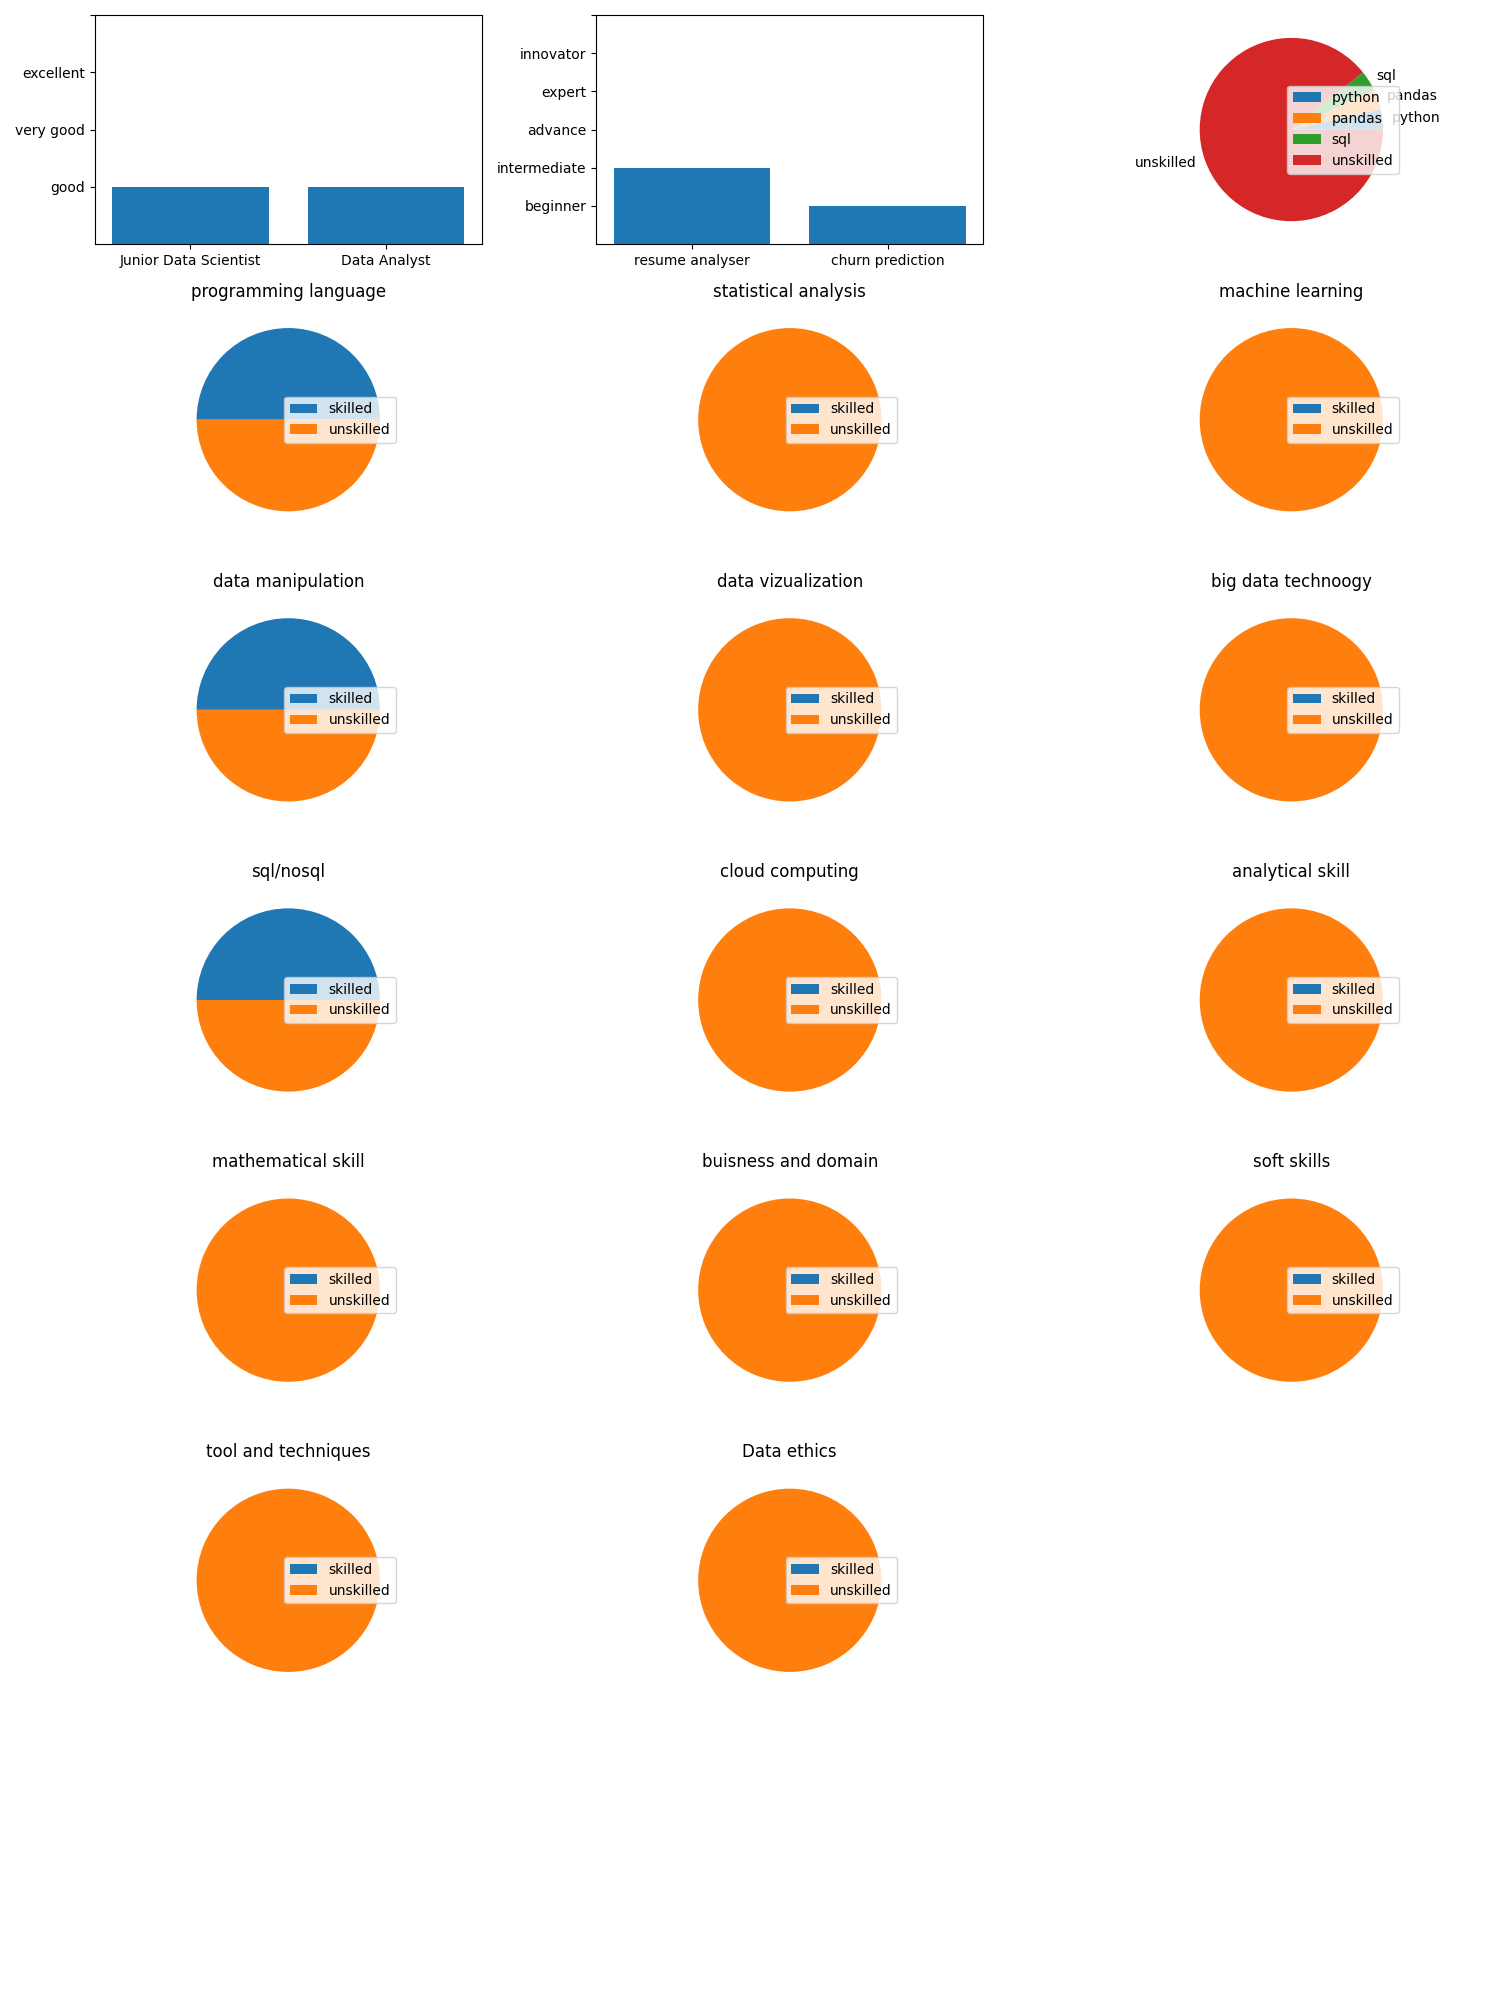
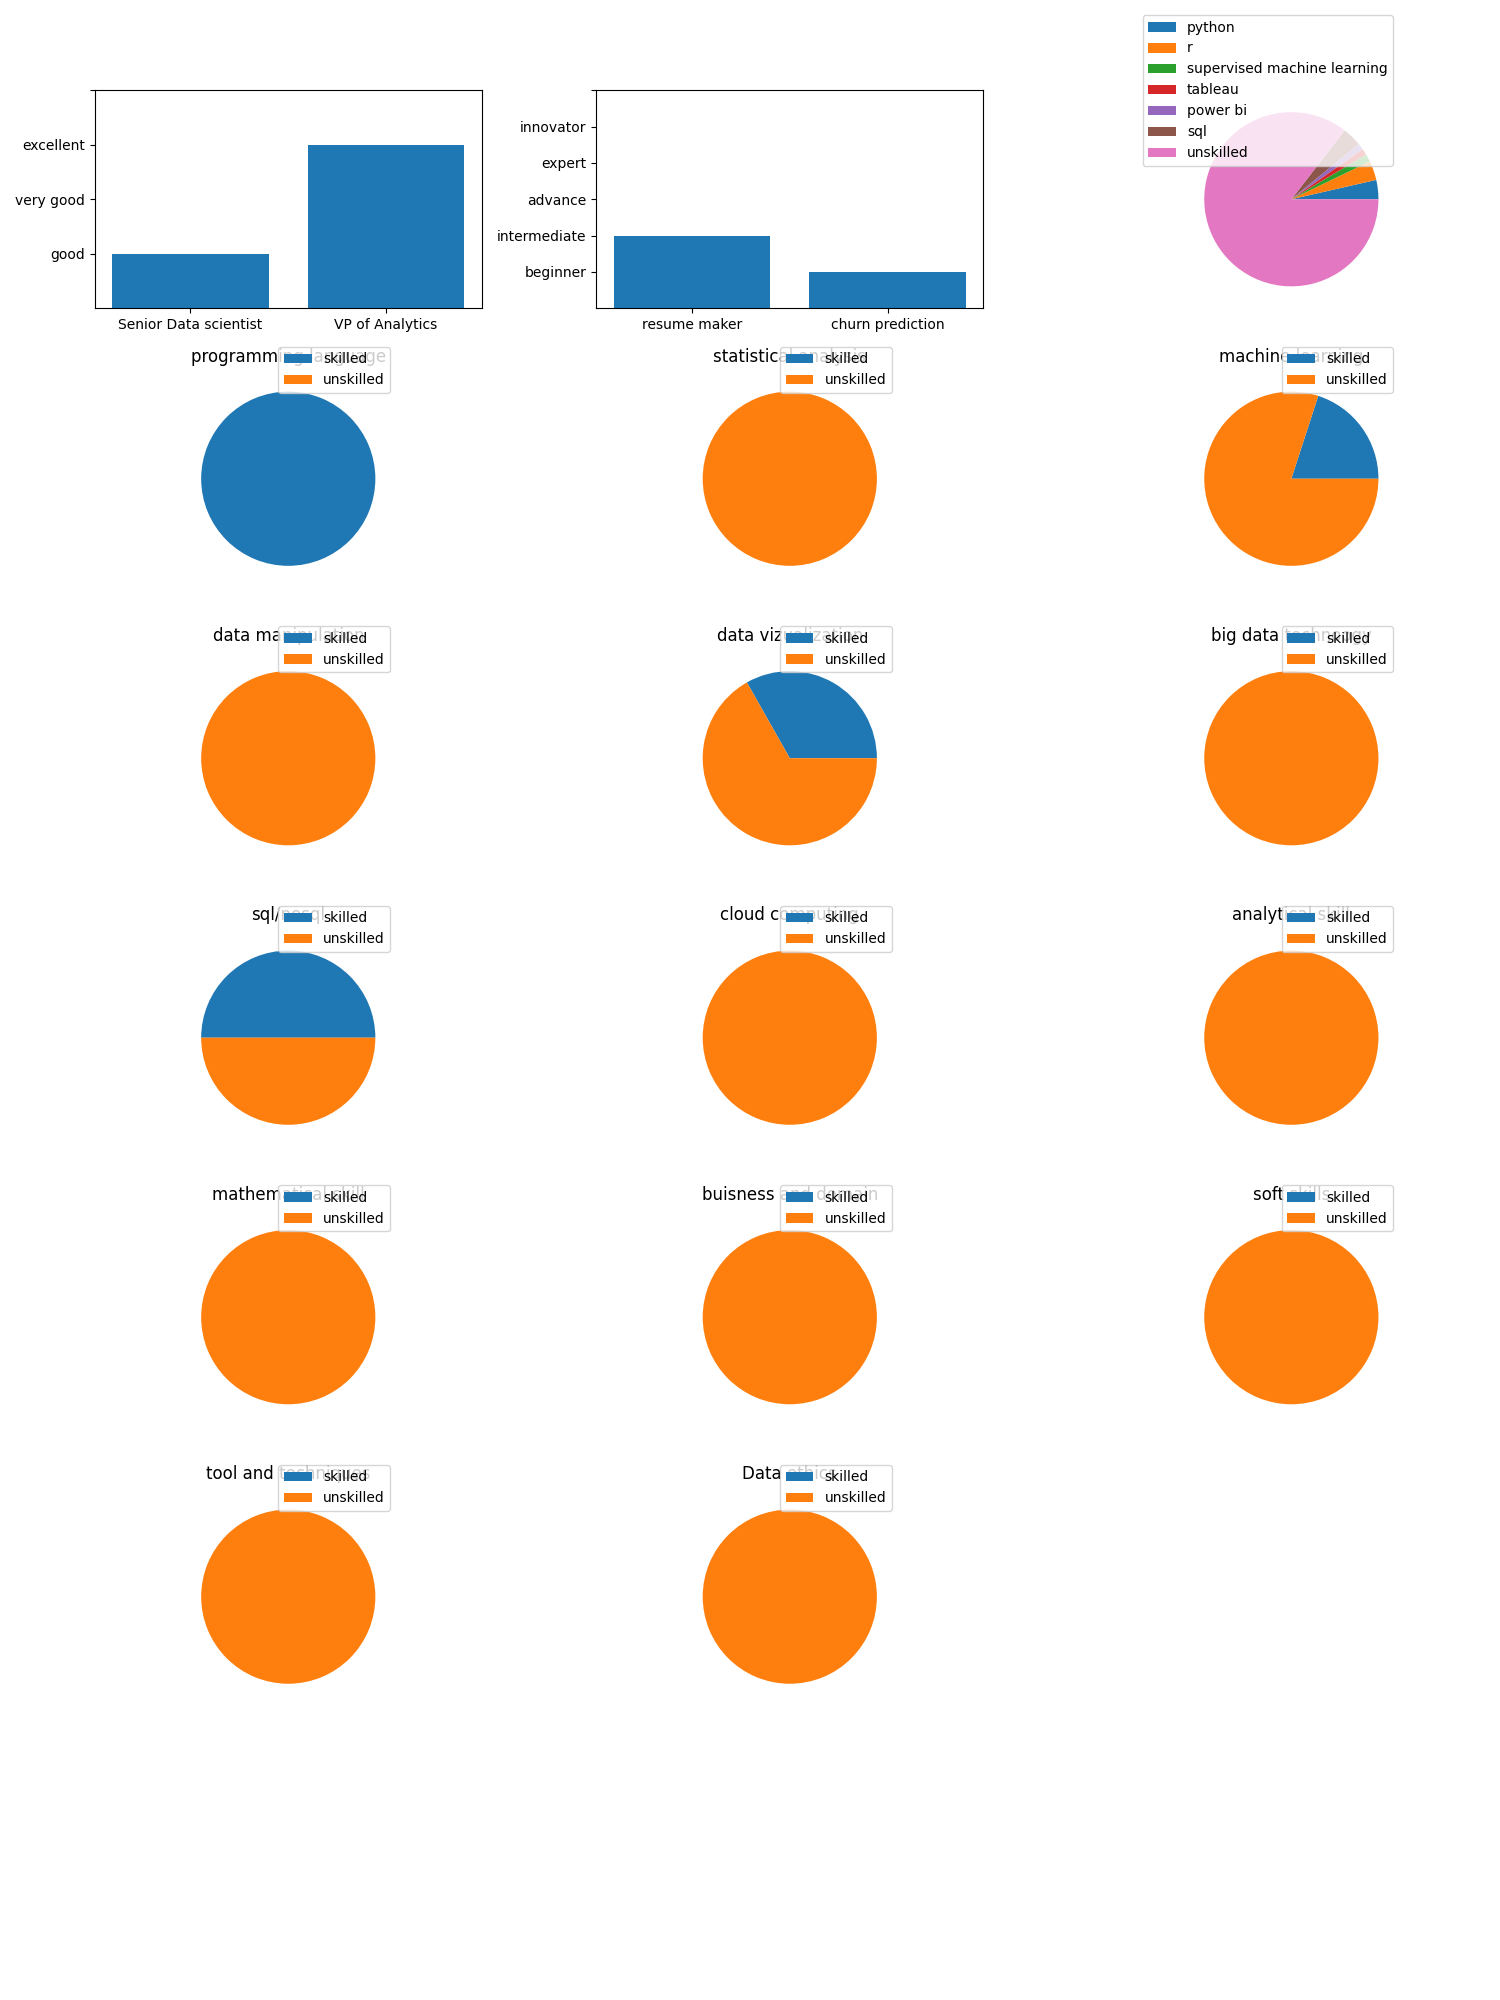
modifiy

diff --git a/templates/index.html b/templates/index.html
@@ -12,13 +12,28 @@
             background-position: center;
             background-repeat: no-repeat;
             cursor:pointer;
-            border:  7px solid rgb(77, 76, 76);
+            border:  5px solid rgb(77, 76, 76);
             box-shadow: 0 0 25px rgba(249, 250, 249, 0.5);
             width: 95%;
             height: 55%;
             border-radius: 0px;
             justify-content: center;
             align-items: center;
+        }
+        .layout2{
+            background-image: url("{{ url_for('static',filename='images/Layoutimg2.PNG')}}");
+            background-size: cover;
+            background-position: center;
+            background-repeat: no-repeat;
+            cursor:pointer;
+            border:  5px solid rgb(77, 76, 76);
+            box-shadow: 0 0 25px rgba(249, 250, 249, 0.5);
+            width: 95%;
+            height: 55%;
+            border-radius: 0px;
+            justify-content: center;
+            align-items: center;
+        
         }
     </style>
 </head>
@@ -38,7 +53,7 @@
             <button class="layout1"></button>
         </form>
         <form action="/Layout2" method="get">
-            <button class="layout1"></button>
+            <button class="layout2"></button>
         </form>
         <form action="/Layout3" method="get">
             <button class="layout1"></button>

diff --git a/templates/final_resume2.html b/templates/final_resume2.html
@@ -34,7 +34,7 @@
                 <label class="nmi" required style="font-size: 40px; width: 100%; color: white;">{{ name_info | safe }}</label>   
             </div>
             <div style="margin-left: 25%;">
-                <img style="border-radius: 20px; margin: 5%; margin-left: 50%;" src="{{url_for('static',filename='uploads/'+img_info)}}" alt="l" class="pathi">
+                <img style="height: 50%; width: 50%; border-radius: 20px; margin: 5%; margin-left: 50%;" src="{{url_for('static',filename='uploads/'+img_info)}}" alt="l" class="pathi">
             </div>    
         </div>
         <div style="padding-top: 1%; padding-bottom: 0.75%;">

diff --git a/templates/marksheet.html b/templates/marksheet.html
@@ -5,7 +5,7 @@
     <meta name="viewport" content="width=device-width, initial-scale=1.0">
     <title>Marksheet</title>
 </head>
-<body style="justify-content: center; align-items: center;">
+<body style="text-align: center;">
     <h1 style="font-family: 'Franklin Gothic Medium', 'Arial Narrow', Arial, sans-serif; font: bolder; color: rgb(48, 15, 155);">Overall Experience    {{ovr_exp}}</h1>
     <img src="{{ plot_img }}" alt="">
 </body>

diff --git a/plots.py b/plots.py
@@ -10,6 +10,7 @@ def pltimg():
     if exp_sum>3:
         exp_sum=3
     lab=["skilled","unskilled"]
+    global percentage_exp
     percentage_exp=f"{(exp_sum/3)*100 :.2f}%"
     pr,lb,lv=Marks()
     plt.figure(figsize=(15,20))
@@ -20,66 +21,67 @@ def pltimg():
     plt.bar(pr,lv)
     plt.yticks([1,2,3,4,5,6],["beginner","intermediate","advance","expert","innovator",""])
     plt.subplot(7,3,3)
-    plt.pie(skillpoints,labels=skillshave)
-    plt.legend(skillshave,loc="right")
+    plt.pie(skillpoints)
+    plt.legend(skillshave,loc="left",bbox_to_anchor=(-0.2,1))
     plt.subplot(7,3,4)
     plt.pie(allskillpoints[0])
     plt.title(skillsnames[0])
-    plt.legend(lab,loc="right") 
+    plt.legend(lab,loc="left",bbox_to_anchor=(-0.2,1)) 
     plt.subplot(7,3,5)
     plt.pie(allskillpoints[1])
     plt.title(skillsnames[1])
-    plt.legend(lab,loc="right")    
+    plt.legend(lab,loc="left",bbox_to_anchor=(-0.2,1))    
     plt.subplot(7,3,6)
     plt.pie(allskillpoints[2])
     plt.title(skillsnames[2])
-    plt.legend(lab,loc="right")    
+    plt.legend(lab,loc="left",bbox_to_anchor=(-0.2,1))    
     plt.subplot(7,3,7)
     plt.pie(allskillpoints[3])
     plt.title(skillsnames[3])
-    plt.legend(lab,loc="right")    
+    plt.legend(lab,loc="left",bbox_to_anchor=(-0.2,1))    
     plt.subplot(7,3,8)
     plt.pie(allskillpoints[4])
     plt.title(skillsnames[4])
-    plt.legend(lab,loc="right")  
+    plt.legend(lab,loc="left",bbox_to_anchor=(-0.2,1))  
     plt.subplot(7,3,9)
     plt.pie(allskillpoints[5])
     plt.title(skillsnames[5])
-    plt.legend(lab,loc="right")  
+    plt.legend(lab,loc="left",bbox_to_anchor=(-0.2,1))  
     plt.subplot(7,3,10)
     plt.pie(allskillpoints[6])
     plt.title(skillsnames[6])
-    plt.legend(lab,loc="right")  
+    plt.legend(lab,loc="left",bbox_to_anchor=(-0.2,1))  
     plt.subplot(7,3,11)
     plt.pie(allskillpoints[7])
     plt.title(skillsnames[7])
-    plt.legend(lab,loc="right")  
+    plt.legend(lab,loc="left",bbox_to_anchor=(-0.2,1))  
     plt.subplot(7,3,12)
     plt.pie(allskillpoints[8])
     plt.title(skillsnames[8])
-    plt.legend(lab,loc="right")  
+    plt.legend(lab,loc="left",bbox_to_anchor=(-0.2,1))  
     plt.subplot(7,3,13)
     plt.pie(allskillpoints[9])
     plt.title(skillsnames[9])
-    plt.legend(lab,loc="right")  
+    plt.legend(lab,loc="left",bbox_to_anchor=(-0.2,1))  
     plt.subplot(7,3,14)
     plt.pie(allskillpoints[10])
     plt.title(skillsnames[10])
-    plt.legend(lab,loc="right")  
+    plt.legend(lab,loc="left",bbox_to_anchor=(-0.2,1))
     plt.subplot(7,3,15)
     plt.pie(allskillpoints[11])
     plt.title(skillsnames[11])
-    plt.legend(lab,loc="right") 
+    plt.legend(lab,loc="left",bbox_to_anchor=(-0.2,1)) 
     plt.subplot(7,3,16)
     plt.pie(allskillpoints[12])
     plt.title(skillsnames[12])
-    plt.legend(lab,loc="right")  
+    plt.legend(lab,loc="left",bbox_to_anchor=(-0.2,1))  
     plt.subplot(7,3,17)
     plt.pie(allskillpoints[13])
     plt.title(skillsnames[13])
-    plt.legend(lab,loc="right")   
+    plt.legend(lab,loc="left",bbox_to_anchor=(-0.2,1))   
     path=os.path.join("static","plots","firsts.png")
     plt.tight_layout()
     plt.savefig(path)
     plt.close()
-    return path,percentage_exp
+    print("done")
+    return percentage_exp,path

diff --git a/model_training.py b/model_training.py
@@ -4,6 +4,7 @@ def training():
     from sklearn.model_selection import train_test_split,cross_val_score
     from sklearn.linear_model import LogisticRegression
     from sklearn.preprocessing import OrdinalEncoder
+    from imblearn.over_sampling import SMOTE
     from sklearn.metrics import mean_squared_error,classification_report
     df=pd.read_csv("Experience\experience.csv")
     df.dropna(inplace=True)
@@ -21,12 +22,14 @@ def training():
     df[df.columns[4]]=oe.fit_transform(np.array(df[df.columns[4]]).reshape(-1,1))
     df[df.columns[5]]=oe.fit_transform(np.array(df[df.columns[5]]).reshape(-1,1))
     df[df.columns[6]]=oe.fit_transform(np.array(df[df.columns[6]]).reshape(-1,1))
+    smore=SMOTE(random_state=42)
     x=df.drop(columns=["experience","Unnamed: 0"])
     print(x)
     y=df["experience"]
     x.dropna(inplace=True)
     y.dropna(inplace=True)
     x_train,x_test,y_train,y_test=train_test_split(x,y,test_size=0.2,random_state=42,stratify=y)
+    x_train,y_train=smore.fit_resample(x_train,y_train)
     from sklearn.naive_bayes import GaussianNB
     nb=GaussianNB()
     nb.fit(x_train,y_train)
@@ -44,10 +47,11 @@ def training():
     dtc.fit(x_train,y_train)
     dtc_score="%.1f" % dtc.score(x_test,y_test)
     dtc_rmse="%.1f" % np.sqrt(mean_squared_error(y_test,dtc.predict(x_test)))
+    print(dtc_score,dtc_rmse)
     rfcl=RandomForestClassifier(n_estimators=100,random_state=42)
     rfcl.fit(x_train,y_train)
-    rfcl_rmse="%.1f" % np.sqrt(mean_squared_error(y_test,rfcl.predict(x_test)))
-    rfcl_score="%.1f" % rfcl.score(x_test,y_test)
+    rfcl_rmse= np.sqrt(mean_squared_error(y_test,rfcl.predict(x_test)))
+    rfcl_score= rfcl.score(x_test,y_test)
     print(rfcl_score,rfcl_rmse)
     from sklearn.neighbors import KNeighborsClassifier
     k=3
@@ -65,7 +69,6 @@ def training():
     print(rmse)
     print(dtc.score(x_test,y_test))
     joblib.dump(oe,"dtcoe.pkl")
-training()
 def mapping():
     import pandas as pd
     import numpy as np

diff --git a/experienceMarks.py b/experienceMarks.py
@@ -6,7 +6,7 @@ def expmarks():
     from userData import DataofUser
     import numpy as np
     import pandas as pd
-    from fuzzywuzzy import process
+    from rapidfuzz import process
     import Levenshtein
 
     nltk.download("punkt")
@@ -92,7 +92,6 @@ def expmarks():
         print(jobs)
         print(job_level)
         print(years)
-
     test=pd.DataFrame({"company":company,
                     "company_level":comapany_level,
                     "jobs level":job_level,

diff --git a/app.py b/app.py
@@ -191,7 +191,8 @@ def show():
 @app.route("/report")
 def marks():
     from plots import pltimg
-    path,percentage_exp=pltimg()
+    print("plotting")
+    percentage_exp,path=pltimg()
     return render_template("marksheet.html",plot_img="static/plots/firsts.png",ovr_exp=percentage_exp)
 if __name__=="__main__":
     if not os.path.exists(app.config['UPLOAD_FOLDER']):

diff --git a/skillmarks.py b/skillmarks.py
@@ -35,6 +35,9 @@ def skMarks():
     skillspoint=[]
     df=DataofUser()
     skillsofuser=df["skills"][0]
+    for i in skillsofuser:
+        skillsofuser.remove(i)
+        skillsofuser.append(i.lower())
     print(skillsofuser)
     skillkey=skills.keys()
     skillvalue=skills.values()

diff --git a/projectMarks.py b/projectMarks.py
@@ -3,7 +3,7 @@ def Marks():
     import numpy as np
     import pandas as pd
     import joblib
-    from fuzzywuzzy import process
+    from rapidfuzz import process
     df=DataofUser()
     countvector=joblib.load("CountVector.pkl")
     project_data=np.array(df["projects"])
